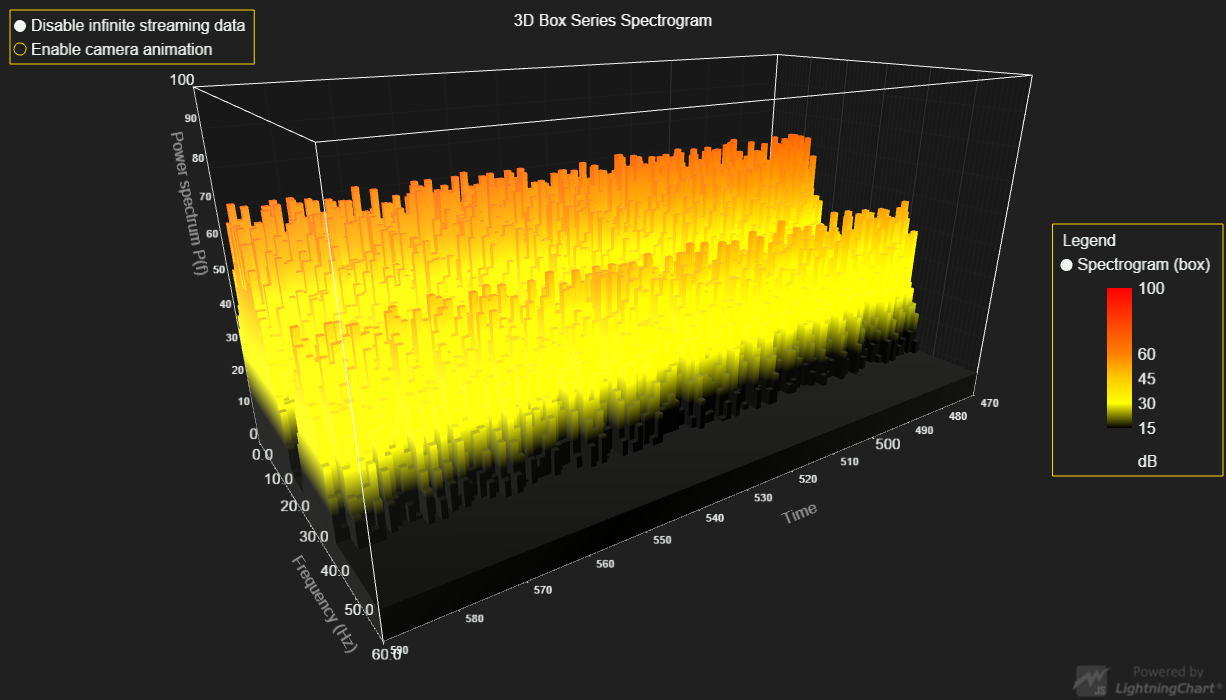
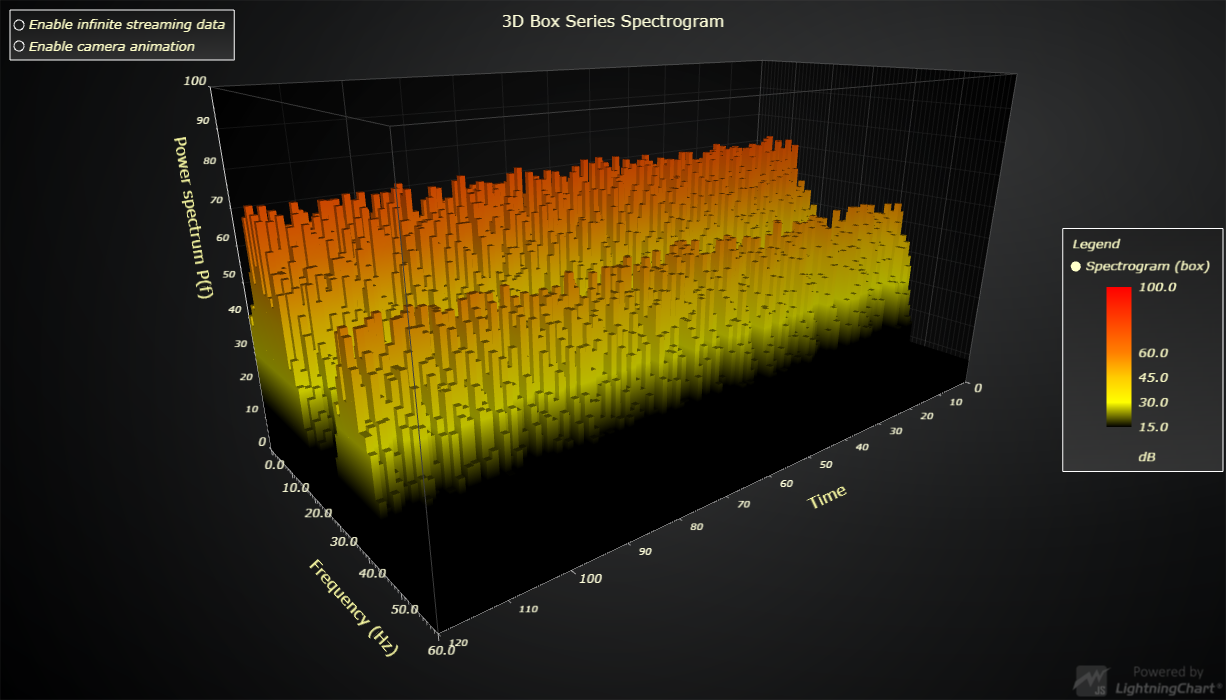
Update LCJS version

diff --git a/src/index.js b/src/index.js
@@ -49,7 +49,7 @@ const paletteFill = new PalettedFill( { lut, lookUpProperty: 'y' } )
 
 // Create Chart3D and configure Axes.
 const chart3D = lightningChart().Chart3D({
-    // theme: Themes.dark
+    // theme: Themes.darkGold
 })
     .setTitle( '3D Box Series Spectrogram' )
     .setBoundingBox( { x: 1, y: 1, z: 2 } )
@@ -97,7 +97,13 @@ for ( let sampleIndex = 0; sampleIndex < dataHistoryLength; sampleIndex++ ) {
 }
 
 // Add LegendBox to chart.
-const legend = chart3D.addLegendBox().add(chart3D)
+const legend = chart3D.addLegendBox()
+    // Dispose example UI elements automatically if they take too much space. This is to avoid bad UI on mobile / etc. devices.
+    .setAutoDispose({
+        type: 'max-width',
+        maxWidth: 0.30,
+    })
+    .add(chart3D)
 
 
 let sampleIndex = 0
@@ -171,6 +177,11 @@ group
     .setOrigin( UIOrigins.LeftTop )
     .setMargin( 10 )
     .setPadding( 4 )
+    // Dispose example UI elements automatically if they take too much space. This is to avoid bad UI on mobile / etc. devices.
+    .setAutoDispose({
+        type: 'max-height',
+        maxHeight: 0.30,
+    })
 
 // Add UI control for toggling between infinite streaming data and static data amount.
 const handleStreamingToggled = ( state ) => {

diff --git a/webpack.config.js b/webpack.config.js
@@ -69,7 +69,8 @@ module.exports = {
         }),
         new CopyWebpackPlugin({
             patterns: [
-                { from: './assets/**/*', to: './examples/assets', flatten: true, noErrorOnMissing: true }
+                { from: './assets/**/*', to: './examples/assets', flatten: true, noErrorOnMissing: true },
+                { from: './node_modules/@arction/lcjs/dist/resources', to: 'resources', noErrorOnMissing: true },
             ]
         })
     ]

diff --git a/README.md b/README.md
@@ -55,8 +55,8 @@ Direct developer email support can be purchased through a [Support Plan][4] or b
 © Arction Ltd 2009-2020. All rights reserved.
 
 
-[3D chart]: https://www.arction.com/lightningchart-js-api-documentation/v3.0.1/classes/chart3d.html
-[3D box series]: https://www.arction.com/lightningchart-js-api-documentation/v3.0.1/classes/boxseries3d.html
-[Paletted Fill Style]: https://www.arction.com/lightningchart-js-api-documentation/v3.0.1/classes/palettedfill.html
-[LUT]: https://www.arction.com/lightningchart-js-api-documentation/v3.0.1/classes/lut.html
+[3D chart]: https://www.arction.com/lightningchart-js-api-documentation/v3.1.0/classes/chart3d.html
+[3D box series]: https://www.arction.com/lightningchart-js-api-documentation/v3.1.0/classes/boxseries3d.html
+[Paletted Fill Style]: https://www.arction.com/lightningchart-js-api-documentation/v3.1.0/classes/palettedfill.html
+[LUT]: https://www.arction.com/lightningchart-js-api-documentation/v3.1.0/classes/lut.html
 
